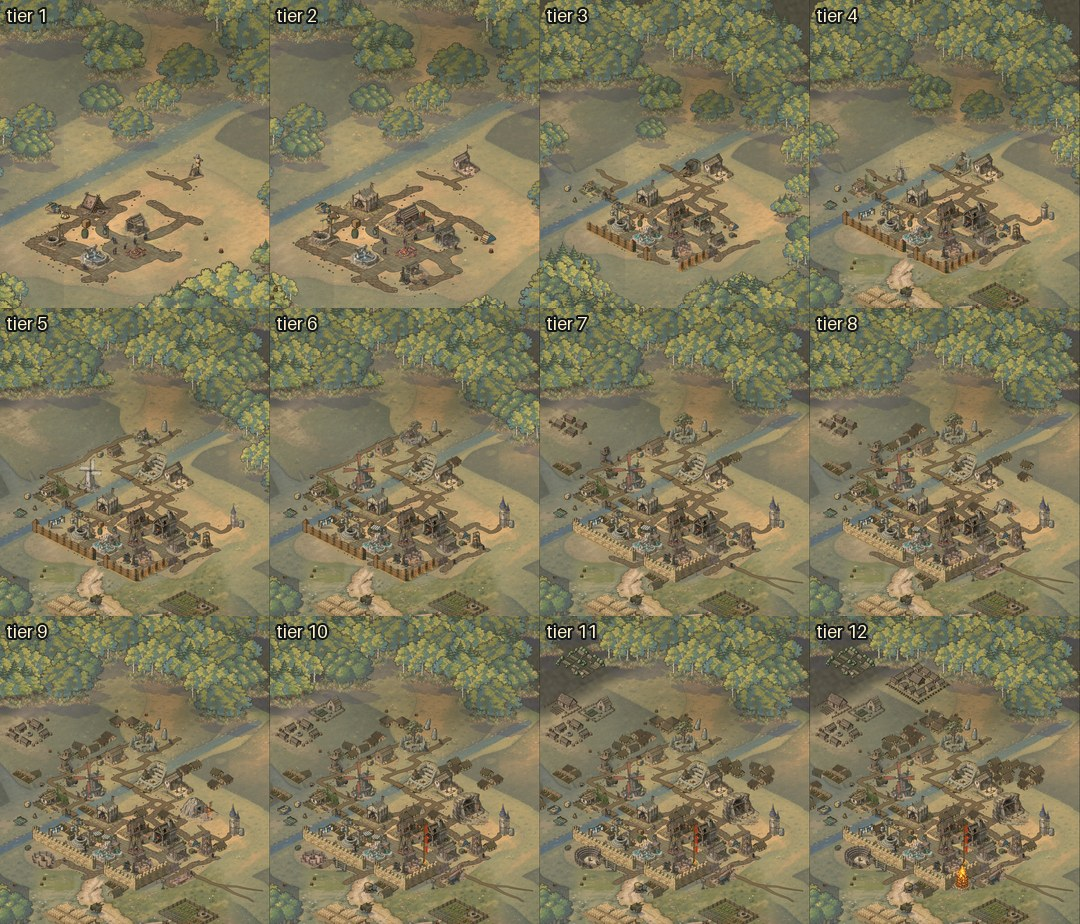
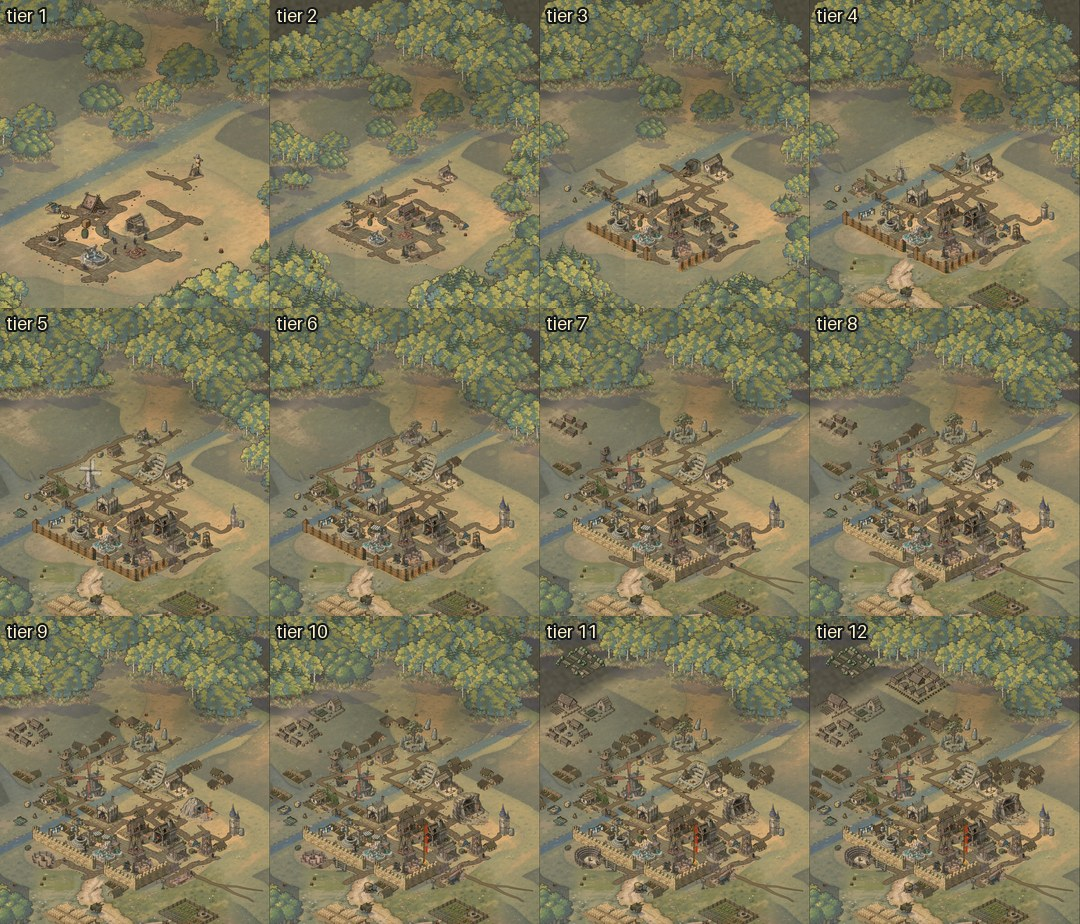
docs(growth): close the track, strips without the bonfire, lisiere and pieds re-locked on the final tier 6 render
Guillaume's go-ahead for the re-lock. Gates unchanged, LOCK_OK.

Changed region(s): [[0.2444, 0.0, 0.5194, 0.3333], [0.8861, 0.9394, 0.9167, 0.9697]]

diff --git a/docs/designs/village/growth/summary-5.md b/docs/designs/village/growth/summary-5.md
@@ -1,0 +1,30 @@
+# Alentours : résumé de la session 5, fermeture (06/11/2026)
+
+**La piste GROWTH est fermée.** Le village pousse en jeu du palier 1 au 12, le mât rouge marque la place au palier 10. Bandes : `img/apres3-strip-jour.jpg` et `img/apres3-strip-nuit.jpg`, place : `img/place-avant-apres.jpg`.
+
+## Fait
+
+- **Feu de joie retiré**, comme tu l'as demandé. Le mât reste.
+- **Rendus et planches refaits** sur le jeu tel qu'il est : 12 paliers de jour, nuits 3, 6, 9, 10, 11, 12.
+- **Portes de l'atelier, une fois** : tout à 0 sauf `sacs_de_grain_2` au palier 2 (caché à 44 % par le puits, accessoire de la forêt du sud). Accroches 60 par défaut et 73 en `haut=1`, comme la référence de LAYOUT.
+- **`lisiere` et `pieds` reverrouillés** sur le rendu du palier 6, avec la forêt reculée et les quartiers. Dossier `village-loop/loupes/bc/relock-2026-11-06/`. LOCK_OK.
+- **Note pour AUDIT et POLISH** dans `handoff.md` : le cœur ne change plus après le palier 8, les paliers 11 et 12 se ressemblent.
+- **Fermeture** : dossier de travail archivé dans `~/bati-archives/2026-11-06-growth.tgz` (983 Mo, 2024 fichiers) puis vidé, `growth-iso/` retiré.
+
+## Pas bon, ou pas fait
+
+- **Le palier 12 n'a pas de sommet au centre.** Sans le feu, c'est un 11 avec plus de maisons au bord.
+- **La nuit ne brille pas** dans les nouveaux quartiers, et les pièces n'ont pas d'ombre de pied : passé à POLISH.
+- **Les nouveaux crops verrouillés ont des bandes noires** : une partie de `lisiere` (25 %) sort de l'écran à la caméra par défaut. Coupés comme LAYOUT le faisait, pas au format des anciens.
+- **Pas de test** sur la table des pièces ni sur le recul de forêt, et deux tests existants cassent : `tests-debt.md`.
+- **Je n'ai pas relancé de juge** après le retrait du feu.
+
+## Chiffres
+
+- OpenAI : 3,67 $ sur 20 $. FLUX : 0,64 $ sur 4 $.
+- Sous-agents : 27 passages sur 150.
+- LOCK_OK, typecheck vert. Aucun test lancé.
+
+## Pour toi
+
+Rien n'attend ta réponse sur cette piste.

diff --git a/docs/designs/village/growth/handoff.md b/docs/designs/village/growth/handoff.md
@@ -13,3 +13,5 @@
 - **POLISH** : les chemins bruns se repeignent avec FLUX 3 Image, collés sous masque tiré du tracé des rues (`PIPELINE.md`, `growth/img/bakeoff2-chemins.jpg`, `scripts/growth/bakeoff2.py`, commande `colle`).
 - **LAYOUT (L15)** : quartiers, souches et campagne posés (`components/village/iso/piecesPosees.ts`). `lisiere` et `pieds` à reverrouiller sur un rendu avec forêt et quartiers, après l'accord de Guillaume (`growth/checkpoint.md`).
 - **POLISH** : lumière de nuit aux fenêtres des nouveaux quartiers et de la campagne, ombres de pied des pièces, rouge du moulin qui vole l'oeil à la place. Rien de cela n'est fait ici.
+- **AUDIT et POLISH** : sans le feu de joie (retiré par Guillaume le 06/11), le cœur du village ne change plus après le palier 8. Les paliers 11 et 12 se ressemblent : leurs ajouts sont à la périphérie (campagne, quartiers du bord). Le mât rouge du palier 10 est le seul repère neuf de la place. Bandes : `growth/img/apres3-strip-jour.jpg` et `-nuit.jpg`.
+- **LAYOUT (L15)** : fait par GROWTH le 06/11, sur l'ordre de Guillaume. `bc-lisiere` et `bc-pieds` reverrouillés sur le rendu du palier 6 de jour, caméra par défaut, coupés avec `scripts/layout/crops.py` : `village-loop/loupes/bc/relock-2026-11-06/`. `state.json`, `lock-sha256.txt` et `~/.cache/bati-loupes-lock/` mis à jour, LOCK_OK. Une piste qui n'a pas fusionné `feat/village-iso` verra `state.json` en MISMATCH jusqu'à sa fusion. Reste à LAYOUT : L18.

diff --git a/docs/designs/village/growth/progress.md b/docs/designs/village/growth/progress.md
@@ -32,3 +32,4 @@ Ce que la piste ajoute au palier 12 si le choix suit le plan : 0 image montée, 
 
 **Ajouté au palier 12** (v4.3) : 54 pièces de quartier, 16 souches et copeaux, 5 pièces de campagne (bourg, fermes, champs, hameau), soit 75 images de jour et autant de nuit, 50 fichiers webp (1,2 Mo). 0 SVG, 0 chose qui bouge. 9 masses de forêt en moins aux paliers 11 et 12.
 - 05/11 Passe de correction : campagne relevée à la valeur des quartiers (0 $), mât de fête au centre de la place au palier 10 (0,064 $). `img/apres2-strip-*.jpg`. Poussé.
+- 06/11 Feu de joie retiré (Guillaume). Rendus, bandes `img/apres3-*` et planche `img/place-avant-apres.jpg` refaits sans lui. Portes : 0 sauf l'accessoire de G15 au palier 2, accroches 60 et 73 comme la référence. `lisiere` et `pieds` reverrouillés, LOCK_OK. Scratch archivé et vidé. Piste fermée.

diff --git a/docs/designs/village/growth/checkpoint.md b/docs/designs/village/growth/checkpoint.md
@@ -95,3 +95,5 @@ Bandes : `img/apres2-strip-jour.jpg` et `img/apres2-strip-nuit.jpg`. Avant corre
 (en attente)
 
 06/11, dans la session : « le mat se voit mais enleve le feu ». Mât gardé au palier 10, feu de joie retiré (image gardée dans scratch/final et dans la provenance).
+
+06/11, ensuite : « OK pour le retrait du feu », rendu et planches à refaire, portes une fois, note pour AUDIT et POLISH, puis reverrouiller `lisiere` et `pieds` sur le rendu final et fermer. Fait.

diff --git a/docs/designs/village-loop/loupes/bc/relock-2026-11-06/README.md b/docs/designs/village-loop/loupes/bc/relock-2026-11-06/README.md
@@ -1,0 +1,5 @@
+# Reverrouillage de `lisiere` et `pieds`, 06/11/2026
+
+Accord de Guillaume, le 06/11, dans la session GROWTH. Rendu de l'atelier au palier 6, jour, caméra par défaut, après la pose de GROWTH (forêt reculée, quartiers, souches, mât).
+Coupés par position dans le monde avec `scripts/layout/crops.py` (tuiles de `bc/card.md`, 2 px par dp). Les bandes noires sont hors écran.
+Les anciens crops restent dans `bc/r6/`.
